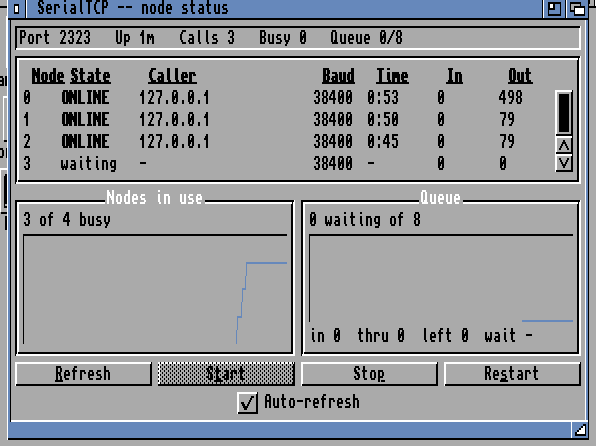
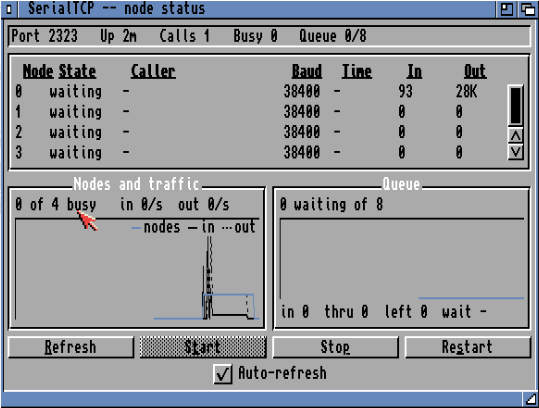
Refresh the screenshot for the traffic graph
The old one predates the second panel's extra traces: it shows a single
line under a panel titled "Nodes in use". Retaken on the test machine
just after a real call, so the node count, the in and out traces and the
key that names them are all in shot, along with the bytes that call
moved.

diff --git a/README.md b/README.md
@@ -174,7 +174,8 @@ Queue: 1 waiting of 8 places, 14 joined in total
 
 ![SerialTCPStat running on AmigaOS 3.2](docs/images/serialtcpstat.png)
 
-One row per node, two scrolling history graphs, and the queue figures. Needs
+One row per node, the queue figures, and two scrolling history graphs: nodes in
+use with the bytes per second in and out beside it, and queue depth. Needs
 **MUI 3.8 or later** (`muimaster.library` 19+); without it the program prints
 the text report instead of refusing to start.
 
